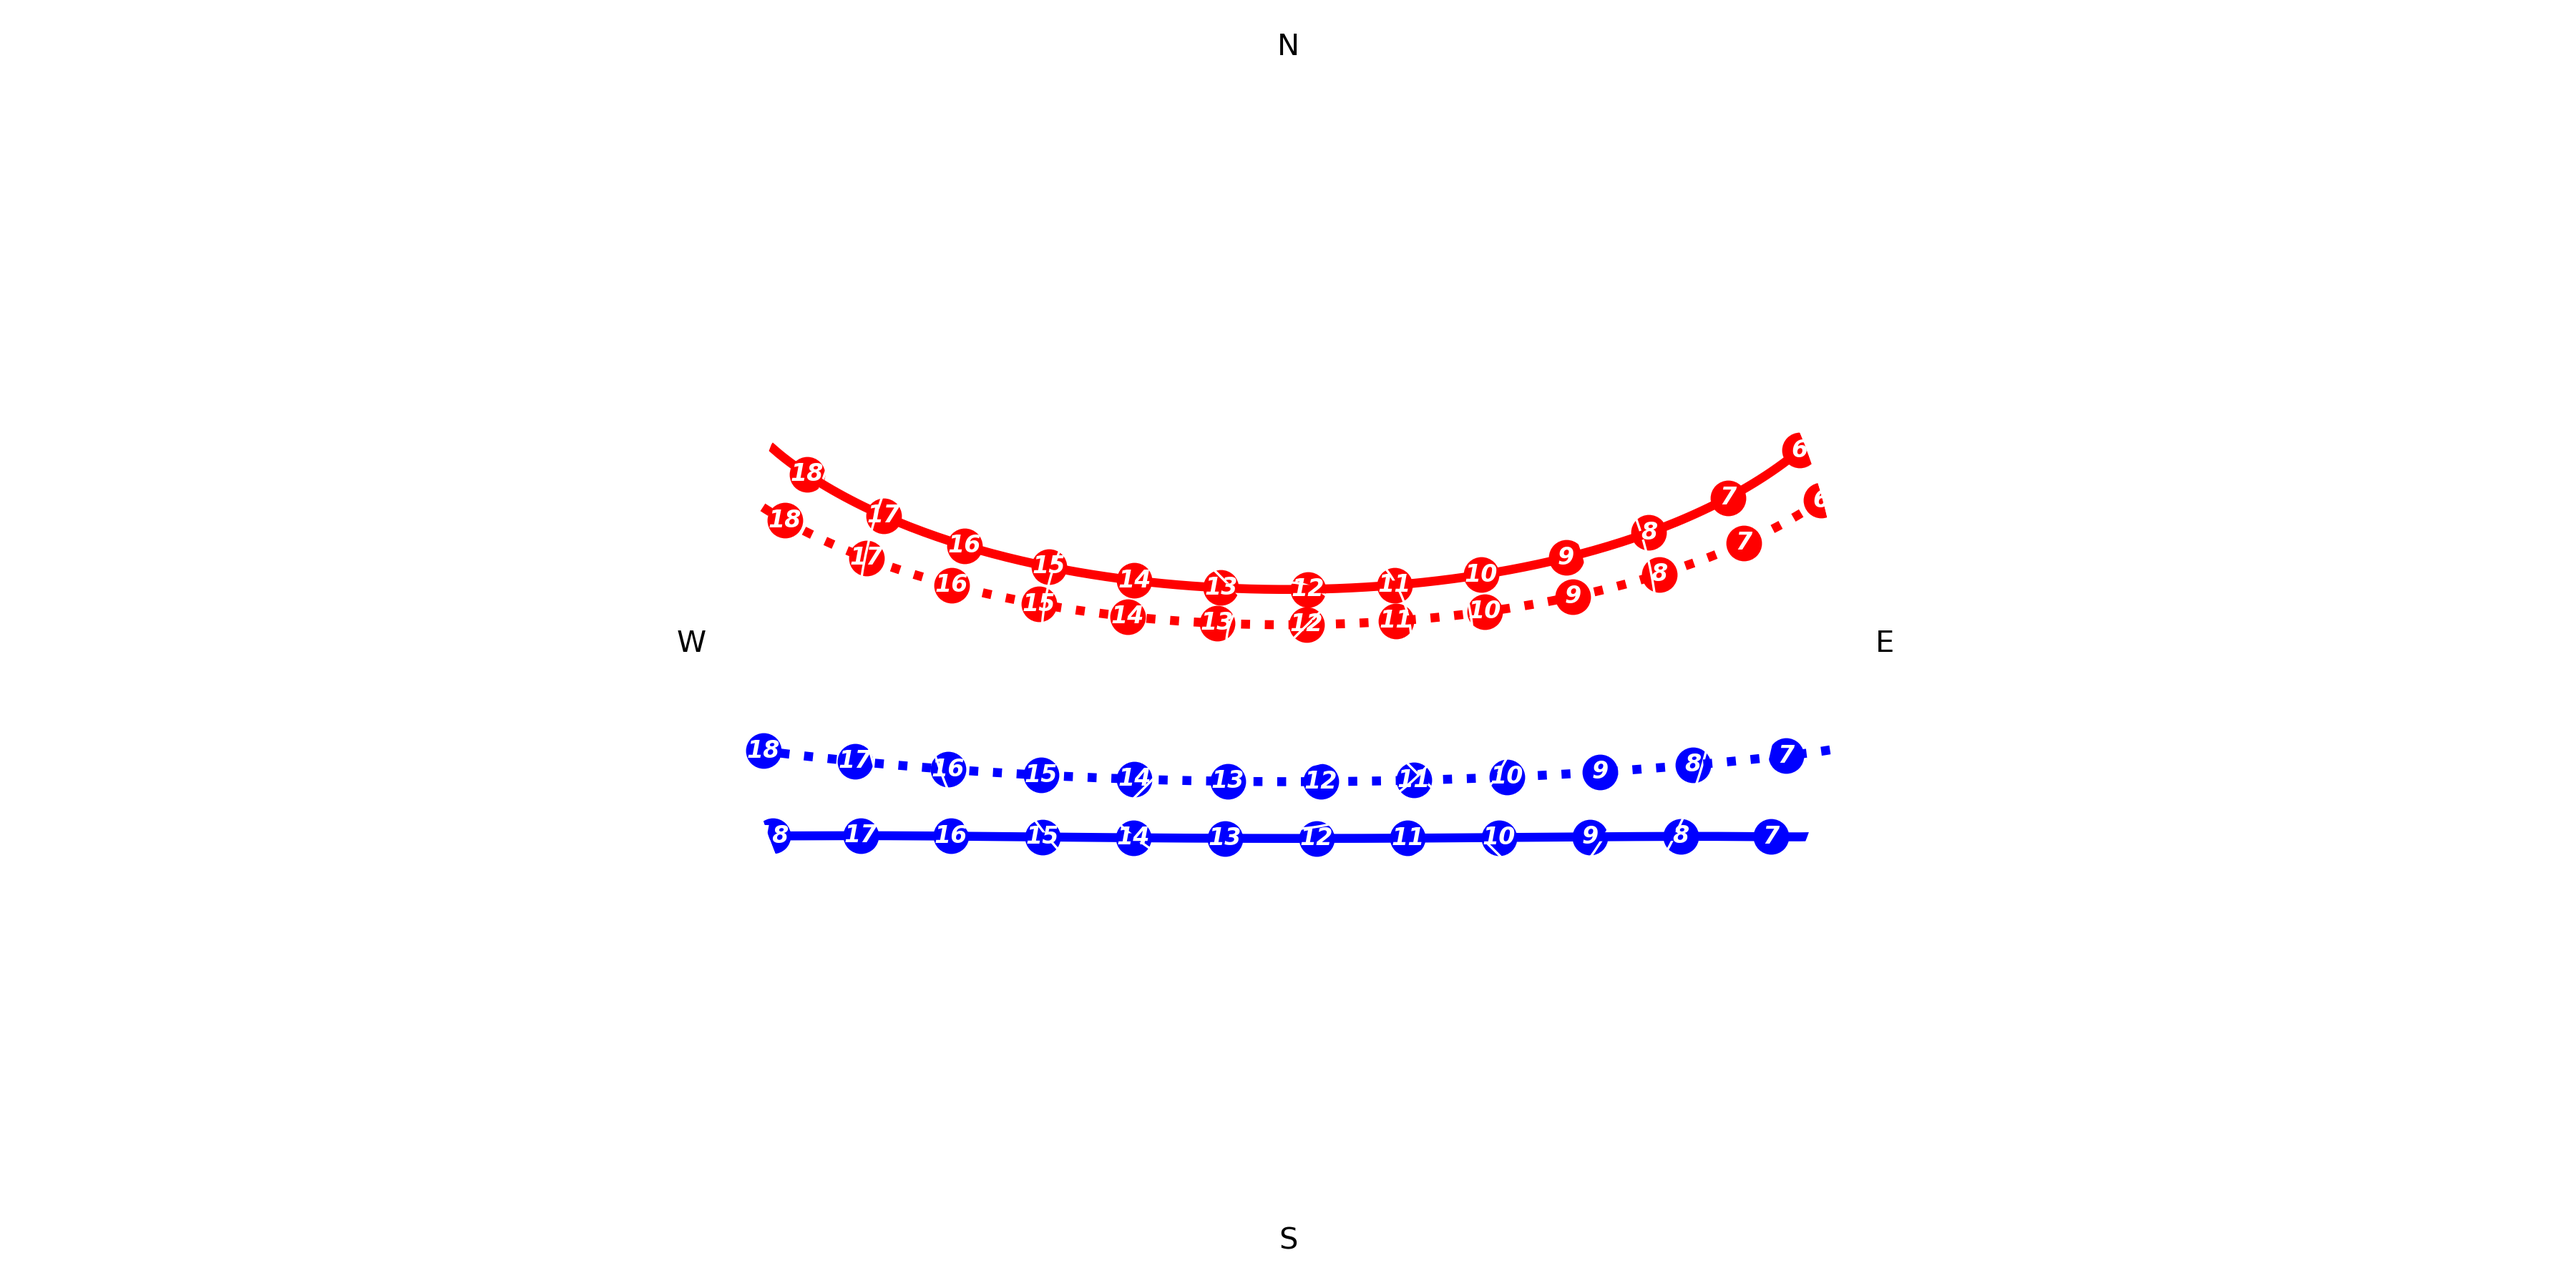
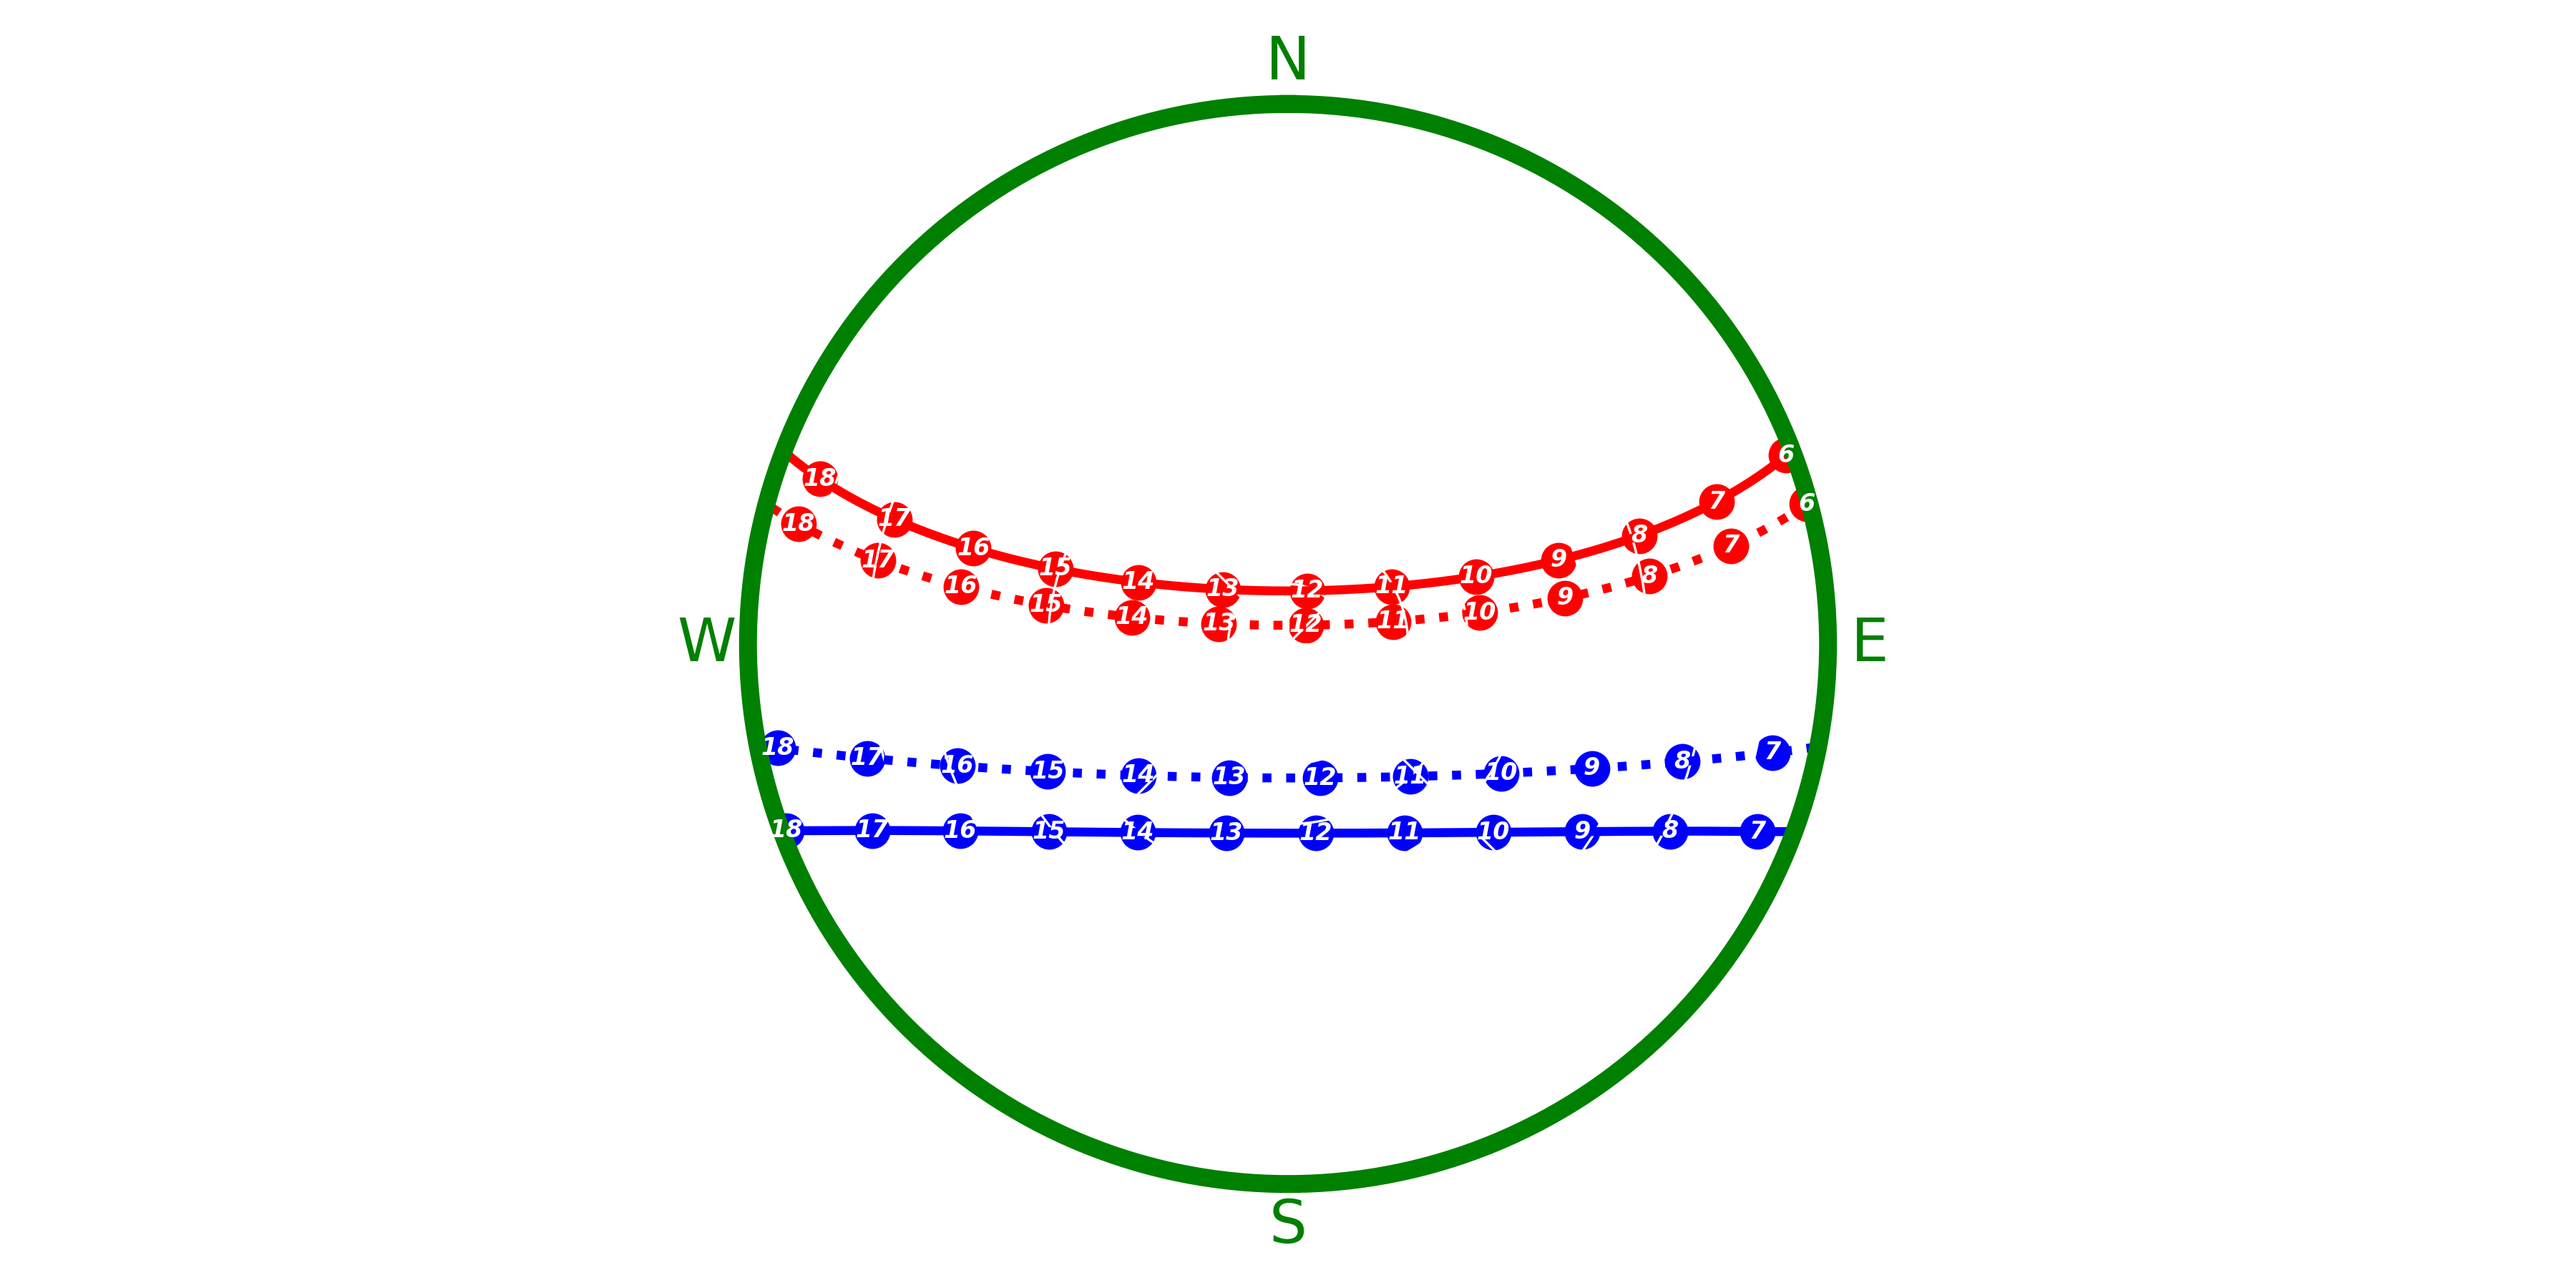
solar path label colour

diff --git a/view_hemisphere_Djibouti.py b/view_hemisphere_Djibouti.py
@@ -13,7 +13,7 @@ matplotlib.use('TkAgg')
 
 save_path = os.getcwd().replace('\\', '/') + '/'
 
-background = 'light'
+background = 'dark'
 
 tz = 'Africa/Djibouti'
 lat, lon = 11.588016341753459, 43.14789764878434
@@ -26,6 +26,9 @@ solpos = solpos.loc[solpos['apparent_elevation'] > 0, :]
 
 if background == 'dark':
     plt.style.use('dark_background')
+    label_c = 'green'
+else:
+    label_c = 'magenta'
 
 fig = plt.figure(figsize=(12, 6))
 # ax = plt.subplot(1, 1, 1, projection='polar')
@@ -67,11 +70,15 @@ ax.set_rlabel_position(0)
 # ax.set_yticks([20,40,60,80])
 plt.setp(ax.get_yticklabels()[::2], visible=False)
 
-ax.set_xticklabels(['N', '', 'E', '', 'S', '', 'W', ''], color='k')
+ax.set_xticklabels(['N', '', 'E', '', 'S', '', 'W', ''], color=label_c, fontsize=20)
 
 # Add shared legend at position in loc
 handles, labels = ax.get_legend_handles_labels()
 # ax.figure.legend(handles, labels, ncol=2, fontsize=9, loc='lower left')
+
+
+ax.spines['polar'].set_color(label_c)
+ax.spines['polar'].set_linewidth(6)
 
 fig.tight_layout()
 fig.savefig(save_path + background + '_solarpath.png', dpi=300, transparent=True)
